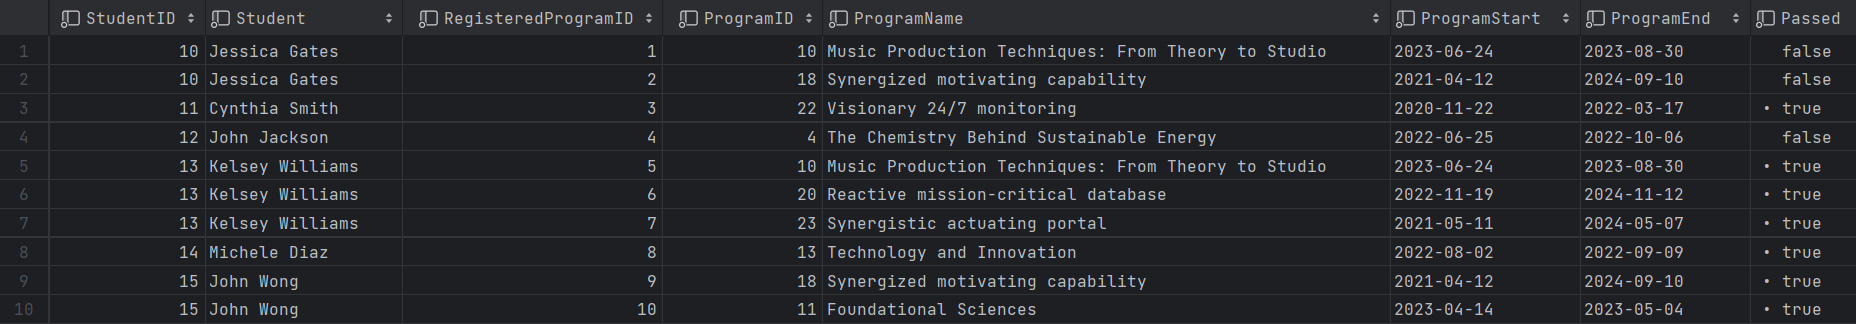
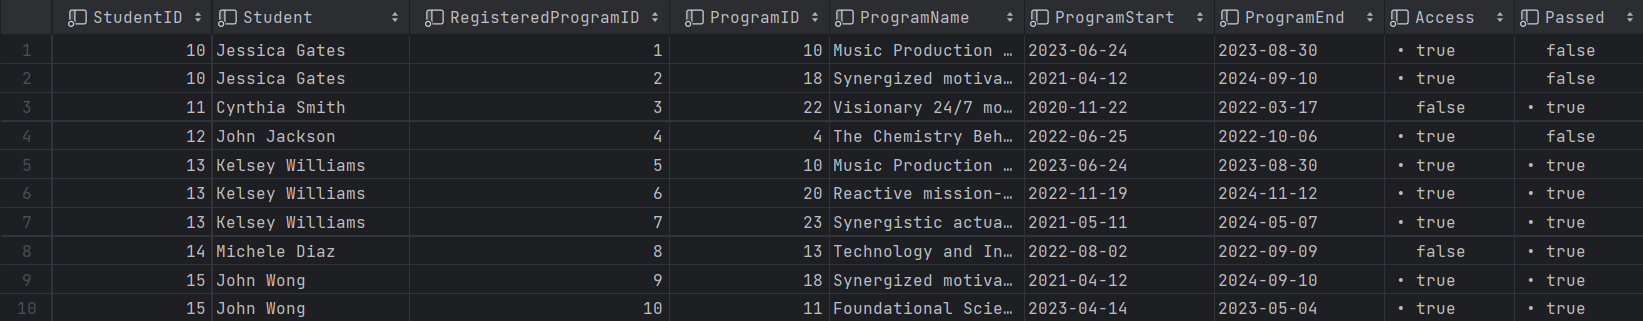
Upd

diff --git a/report.md b/report.md
@@ -777,14 +777,14 @@ create view WebinarsInfo as select w.WebinarID, c.ClassID, s.SubjectName, t.Firs
 
 ### **13. Lista programów edukacyjnych, na które są zapisane studenty, wraz z numerem zamówienia, w którym dany program był zamówiony, datą rozpoczęcia i zakończenia programu oraz informacją o zaliczeniu.**
 ```sql
-create view StudentsPrograms as select s.StudentID, s.FirstName + ' ' + s.LastName as Student, rp.RegisteredProgramID, ep.ProgramID, ep.ProgramName, ep.ProgramStart, ep.ProgramEnd, rp.Passed
-   from Students as s
-       inner join Orders as o
-           on s.StudentID = o.StudentID
-       inner join RegisteredPrograms as rp
-           on o.OrderID = rp.OrderID
-       inner join EducationalPrograms as ep
-           on rp.ProgramID = ep.ProgramID
+create view StudentsPrograms as select s.StudentID, s.FirstName + ' ' + s.LastName as Student, rp.RegisteredProgramID, ep.ProgramID, ep.ProgramName, ep.ProgramStart, ep.ProgramEnd, rp.Access, rp.Passed
+    from Students as s
+        inner join Orders as o
+            on s.StudentID = o.StudentID
+        inner join RegisteredPrograms as rp
+            on o.OrderID = rp.OrderID
+        inner join EducationalPrograms as ep
+            on rp.ProgramID = ep.ProgramID
 ```
 ![StudentsPrograms](img/StudentsPrograms.png)
 
@@ -1927,20 +1927,7 @@ CREATE FUNCTION AverageMarkOnClass(@ClassID int)
 
 ```
 
-### **11. Wyświetlenie listy studiów, na które jest zapisany dany student. Funkcja wykorzystywana jest w procedurze #20 oraz triggerze #2.**
-```sql
-CREATE FUNCTION StudentStudies(@StudentID int)
-   RETURNS TABLE
-       AS
-       RETURN
-       select StudentID, Student, RegisteredProgramID, StudiesID, sp.ProgramName, sp.ProgramStart, sp.ProgramEnd, sp.Passed
-       from StudentsPrograms as sp
-           inner join EducationalPrograms as ep
-               on ep.ProgramID = sp.ProgramID
-       where @StudentID = sp.StudentID and StudiesID is not null
-```
-
-### **12. Funkcja sprawdzająca minimalnie możliwej liczby uczęstników zajęć w ramach modułu studiów (jeśli danę zajęcia są dodawane do studiów)**
+### **11. Funkcja sprawdzająca minimalnie możliwej liczby uczęstników zajęć w ramach modułu studiów (jeśli danę zajęcia są dodawane do studiów)**
 ```sql
 CREATE FUNCTION CalculateMinClassParticipantsForStudies(@ModuleID int)
 RETURNS INT
@@ -1958,43 +1945,36 @@ BEGIN
 END;
 ```
 
-### **13. Wyświetlenie listy osób zapisanych na dane offline-wydarzenie w ramach studiów**
+### **12. Wyświetlenie listy osób zapisanych na dane offline-wydarzenie w ramach studiów**
 ```sql
 CREATE FUNCTION AllClassParticipants(@ClassID int)
-   RETURNS TABLE
-       AS
-       RETURN
-       select distinct StudentID, Student, StudiesID
-       from StudentsPrograms as sp
-           inner join EducationalPrograms as ep
-               on ep.ProgramID = sp.ProgramID
-           inner join Modules as m
-               on ep.ProgramID = m.ProgramID
-           inner join Classes as c
-               on m.ModuleID = c.ModuleID
-           inner join OfflineClasses as ofl
-               on c.ClassID = ofl.ClassID and c.ClassID = @ClassID
-       where StudiesID is not null
-       UNION
-       select distinct s.StudentID, s.FirstName + ' ' + s.LastName as Student, ed.StudiesID
-       from Students as s
-           inner join Orders as o
-               on s.StudentID = o.StudentID
-           inner join RegisteredClasses as rc
-               on o.OrderID = rc.OrderID
-           inner join Classes as c
-               on rc.ClassID = c.ClassID
-           inner join OfflineClasses as ofl
-               on c.ClassID = ofl.ClassID
-           inner join Modules as m
-               on c.ModuleID = m.ModuleID
-           inner join EducationalPrograms as ed
-               on m.ProgramID = ed.ProgramID
-          where ed.StudiesID is not null and c.ClassID = @ClassID
+    RETURNS TABLE
+        AS
+        RETURN
+        with t as (
+        select c.ClassID, s.StudiesID
+        from Classes as c
+            inner join Modules as m
+                on m.ModuleID = c.ModuleID
+            inner join EducationalPrograms as ep
+                on m.ProgramID = ep.ProgramID
+            inner join Studies as s
+                on ep.StudiesID = s.StudiesID
+        )
+
+        select StudentID, Student, StudiesID
+            from OfflineParticipantsList
+                inner join t
+                    on t.ClassID = OfflineParticipantsList.ClassID and t.ClassID = @ClassID
+        UNION
+        select StudentID, Student, StudiesID
+            from StudentsOuterClasses
+                inner join t
+                    on t.ClassID = StudentsOuterClasses.ClassID and t.ClassID = @ClassID
 
 ```
 
-### **14. Wyświetlenie listy osób zapisanych na dany program**
+### **13. Wyświetlenie listy osób zapisanych na dany program**
 ```sql
 CREATE FUNCTION AllProgramParticipants(@ProgramID int)
    RETURNS TABLE
@@ -2006,6 +1986,46 @@ CREATE FUNCTION AllProgramParticipants(@ProgramID int)
                on ep.ProgramID = sp.ProgramID
        where ep.ProgramID = @ProgramID
 ```
+
+### **14. Wyświetlenie listy studiów, na które dany student jest zapisany i ma dostęp. Funkcja wykorzystywana jest w procedurze #18 oraz triggerze #2**
+```sql
+CREATE FUNCTION StudentStudies(@StudentID int)
+    RETURNS TABLE
+        AS
+        RETURN
+        select StudentID, Student, RegisteredProgramID, StudiesID, sp.ProgramName, sp.ProgramStart, sp.ProgramEnd, sp.Passed
+        from StudentsPrograms as sp
+            inner join EducationalPrograms as ep
+                on ep.ProgramID = sp.ProgramID
+        where @StudentID = sp.StudentID and StudiesID is not null and access = 'true'
+```
+
+### **15. Wyświetlenie listy webinarów, na które dany student jest zapisany i ma dostęp**
+```sql
+CREATE FUNCTION StudentWebinars(@StudentID int)
+    RETURNS TABLE
+        AS
+        RETURN
+        select StudentID, Student, RegisteredProgramID, WebinarID, sp.ProgramName, sp.ProgramStart, sp.ProgramEnd, sp.Passed
+        from StudentsPrograms as sp
+            inner join EducationalPrograms as ep
+                on ep.ProgramID = sp.ProgramID
+        where @StudentID = sp.StudentID and WebinarID is not null and access = 'true'
+```
+
+### **16. Wyświetlenie listy kursów, na które dany student jest zapisany i ma dostęp**
+```sql
+CREATE FUNCTION StudentCourses(@StudentID int)
+    RETURNS TABLE
+        AS
+        RETURN
+        select StudentID, Student, RegisteredProgramID, CourseID, sp.ProgramName, sp.ProgramStart, sp.ProgramEnd, sp.Passed
+        from StudentsPrograms as sp
+            inner join EducationalPrograms as ep
+                on ep.ProgramID = sp.ProgramID
+        where @StudentID = sp.StudentID and CourseID is not null and access = 'true'
+```
+
 
 ## 5. **Triggery**
 ### **1. Aktualiacja stanu zapłaty zamówienia po udanej transakcji w tabeli Payments.**
@@ -2273,6 +2293,8 @@ GRANT EXECUTE ON CalculateMinClassParticipantsForStudies to director
 GRANT SELECT ON ScheduleForStudent to director
 GRANT SELECT ON LiveOnlineSynchClasses to director
 GRANT SELECT ON StudentStudies to director
+GRANT SELECT ON StudentWebinars to director
+GRANT SELECT ON StudentCourses to director
 GRANT SELECT ON AllClassParticipants to director
 GRANT SELECT ON AllProgramParticipants to director
 ```
@@ -2326,6 +2348,8 @@ GRANT EXECUTE ON CalculateMinClassParticipantsForStudies to moderator
 GRANT SELECT ON ScheduleForStudent to moderator
 GRANT SELECT ON LiveOnlineSynchClasses to moderator
 GRANT SELECT ON StudentStudies to moderator
+GRANT SELECT ON StudentWebinars to moderator
+GRANT SELECT ON StudentCourses to moderator
 GRANT SELECT ON AllClassParticipants to moderator
 GRANT SELECT ON AllProgramParticipants to moderator
 ```
@@ -2384,6 +2408,8 @@ GRANT EXECUTE ON AverageMarkOnClass to student
 
 GRANT SELECT ON ScheduleForStudent to student
 GRANT SELECT ON StudentStudies to student
+GRANT SELECT ON StudentWebinars to student
+GRANT SELECT ON StudentCourses to student
 GRANT SELECT ON AllClassParticipants to student
 GRANT SELECT ON AllProgramParticipants to student
 ```
